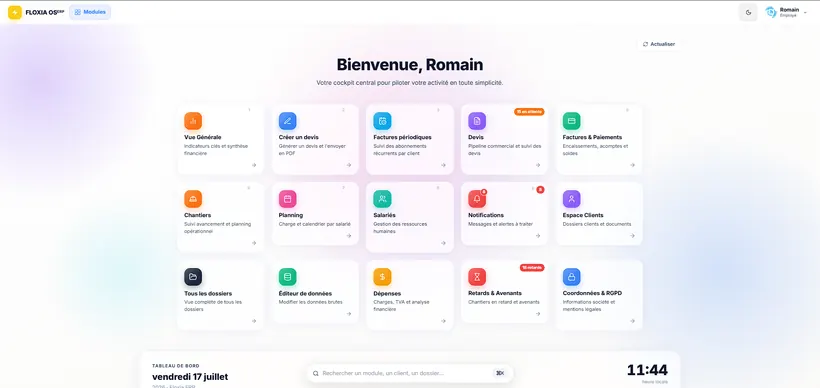
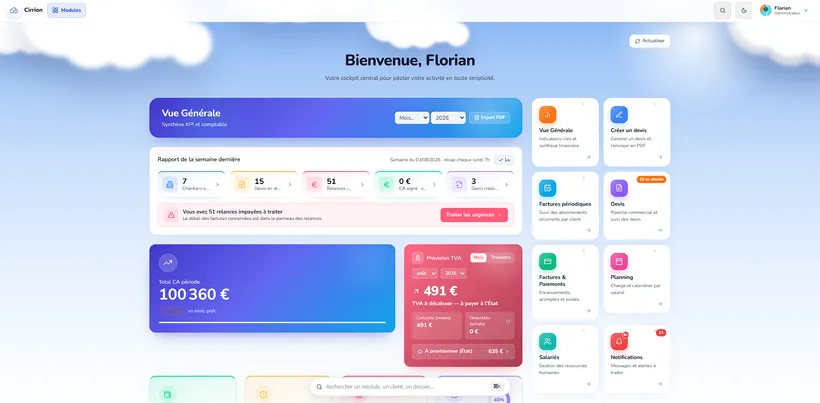
Update the dashboard screenshot to the current CirrionOS interface
Regenerated the three assets the site actually uses from the uploaded PNG
(1915x942): a 1600px webp for the hero, an 820px webp for its mobile srcSet,
and a 1600px jpeg for the ERP section and the social/JSON-LD previews. The
temporary upload is removed.

Two declared sizes were wrong and are corrected: the hero img claimed
1600x756 against a 787px-tall asset, and the Open Graph image still declared
842x414 from an older screenshot. Both caused layout shift or wrong preview
framing.

The jpeg also drops from 964 KB to 106 KB, since the previous one was
unoptimised.

diff --git a/src/app/page.tsx b/src/app/page.tsx
@@ -50,7 +50,7 @@ export const metadata: Metadata = {
     description:
       "Créez vos devis en 3 minutes depuis WhatsApp ou l'application Cirrion ERP. Pré-modèles IA, TVA 5,5/10/20% au choix, e-facturation 2026. Pour tous les artisans du bâtiment.",
     url: "https://www.cirrion.eu",
-    images: [{ url: "https://www.cirrion.eu/dashboard-cirrion.jpg", width: 842, height: 414, alt: "Tableau de bord Cirrion — logiciel ERP artisan bâtiment" }],
+    images: [{ url: "https://www.cirrion.eu/dashboard-cirrion.jpg", width: 1600, height: 787, alt: "Tableau de bord Cirrion — logiciel ERP artisan bâtiment" }],
   },
   twitter: {
     card: "summary_large_image",

diff --git a/src/components/sections/Hero.tsx b/src/components/sections/Hero.tsx
@@ -388,7 +388,7 @@ export default function Hero() {
                 srcSet="/dashboard-cirrion-sm.webp 820w, /dashboard-cirrion.webp 1600w"
                 sizes="(max-width: 960px) 92vw, 640px"
                 width={1600}
-                height={756}
+                height={787}
                 alt="Tableau de bord CirrionOS — cockpit de gestion pour artisans du bâtiment : devis, factures, chantiers, planning, relances et notifications"
                 loading="eager"
                 fetchPriority="high"
